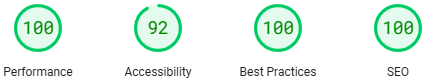
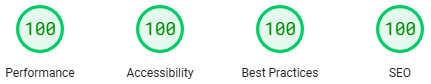
chore: auto page routing

diff --git a/src/router/index.ts b/src/router/index.ts
@@ -1,20 +1,28 @@
 import { createRouter, createWebHistory } from 'vue-router'
+import { routes, handleHotUpdate } from 'vue-router/auto-routes'
 
 const router = createRouter({
   history: createWebHistory(import.meta.env.BASE_URL),
-  routes: [
-    {
-      path: '/',
-      name: 'home',
-      component: () => import('../views/home.vue'),
-    },
-    { path: '/:path(.*)', component: () => import('../views/not-found.vue') },
-    {
-      path: '/about',
-      name: 'about',
-      component: () => import('../views/about.vue'),
-    },
-  ],
+  routes,
+
+  // uncomment the following lines to use manual routes
+  //   routes: [
+  //     {
+  //       path: '/',
+  //       name: 'home',
+  //       component: () => import('../pages/home.vue'),
+  //     },
+  //     { path: '/:path(.*)', component: () => import('../pages/not-found.vue') },
+  //     {
+  //       path: '/about',
+  //       name: 'about',
+  //       component: () => import('../pages/about.vue'),
+  //     },
+  //   ],
 })
+
+if (import.meta.hot) {
+  handleHotUpdate(router)
+}
 
 export default router

diff --git a/typed-router.d.ts b/typed-router.d.ts
@@ -1,0 +1,25 @@
+/* eslint-disable */
+/* prettier-ignore */
+// @ts-nocheck
+// Generated by unplugin-vue-router. ‼ DO NOT MODIFY THIS FILE ‼
+// It's recommended to commit this file.
+// Make sure to add this file to your tsconfig.json file as an "includes" or "files" entry.
+
+declare module 'vue-router/auto-routes' {
+  import type {
+    RouteRecordInfo,
+    ParamValue,
+    ParamValueOneOrMore,
+    ParamValueZeroOrMore,
+    ParamValueZeroOrOne,
+  } from 'vue-router'
+
+  /**
+   * Route name map generated by unplugin-vue-router
+   */
+  export interface RouteNamedMap {
+    '/': RouteRecordInfo<'/', '/', Record<never, never>, Record<never, never>>,
+    '/about': RouteRecordInfo<'/about', '/about', Record<never, never>, Record<never, never>>,
+    '/not-found': RouteRecordInfo<'/not-found', '/not-found', Record<never, never>, Record<never, never>>,
+  }
+}

diff --git a/vite.config.ts b/vite.config.ts
@@ -4,12 +4,14 @@ import stylelint from 'vite-plugin-stylelint'
 import autoImport from 'unplugin-auto-import/dist/vite.js'
 import { resolve } from 'path'
 import vueDevTools from 'vite-plugin-vue-devtools'
+import VueRouter from 'unplugin-vue-router/vite'
 
 // https://vite.dev/config/
 export default defineConfig({
   plugins: [
     vue(),
     vueDevTools(),
+    VueRouter({}),
     stylelint(),
     autoImport({
       imports: ['vue', 'vue-router'],

diff --git a/env.d.ts b/env.d.ts
@@ -1,3 +1,5 @@
 /// <reference types="vite/client" />
 
+/// <reference types="unplugin-vue-router/client" />
+
 declare module 'aos'

diff --git a/README.md b/README.md
@@ -17,7 +17,7 @@
 <br>
 
 <div align='center'>
-    <a align="center" href="https://pagespeed.web.dev/analysis/https-vuetus-vercel-app/pubrgtb549?form_factor=desktop">
+    <a align="center" href="https://pagespeed.web.dev/analysis/https-vuetus-vercel-app/ukjcyufeqf?form_factor=desktop">
         <img src="./public/insight.png" alt="PageSpeed" align='center'>
     </a>
 </div>
@@ -50,7 +50,7 @@
 
 🌊 [AOS](https://www.npmjs.com/package/aos) - animation package
 
-<!-- - 🗂 [File based routing](./src/pages) -->
+🗂 [File based routing](./src/pages) with [unplugin-vue-router](https://github.com/posva/unplugin-vue-router)
 
 <!-- - ⚙ Unit Testing with [Vitest](https://github.com/vitest-dev/vitest), E2E Testing with [Cypress](https://cypress.io/) on [GitHub Actions](https://github.com/features/actions) -->
 
